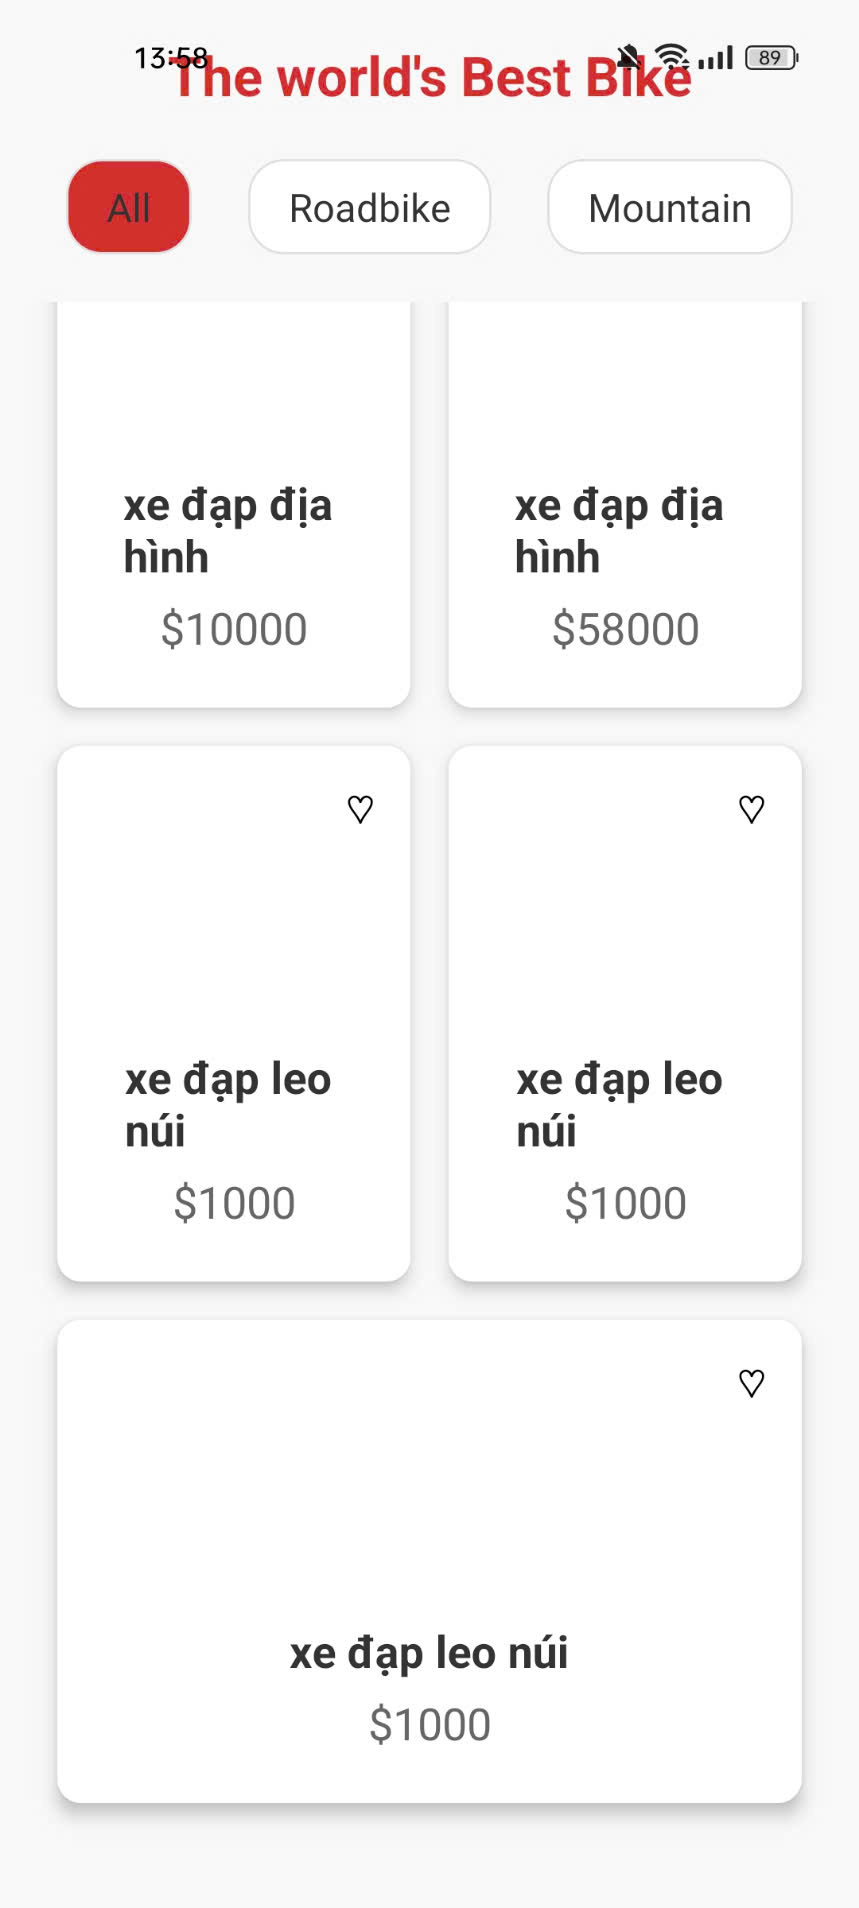
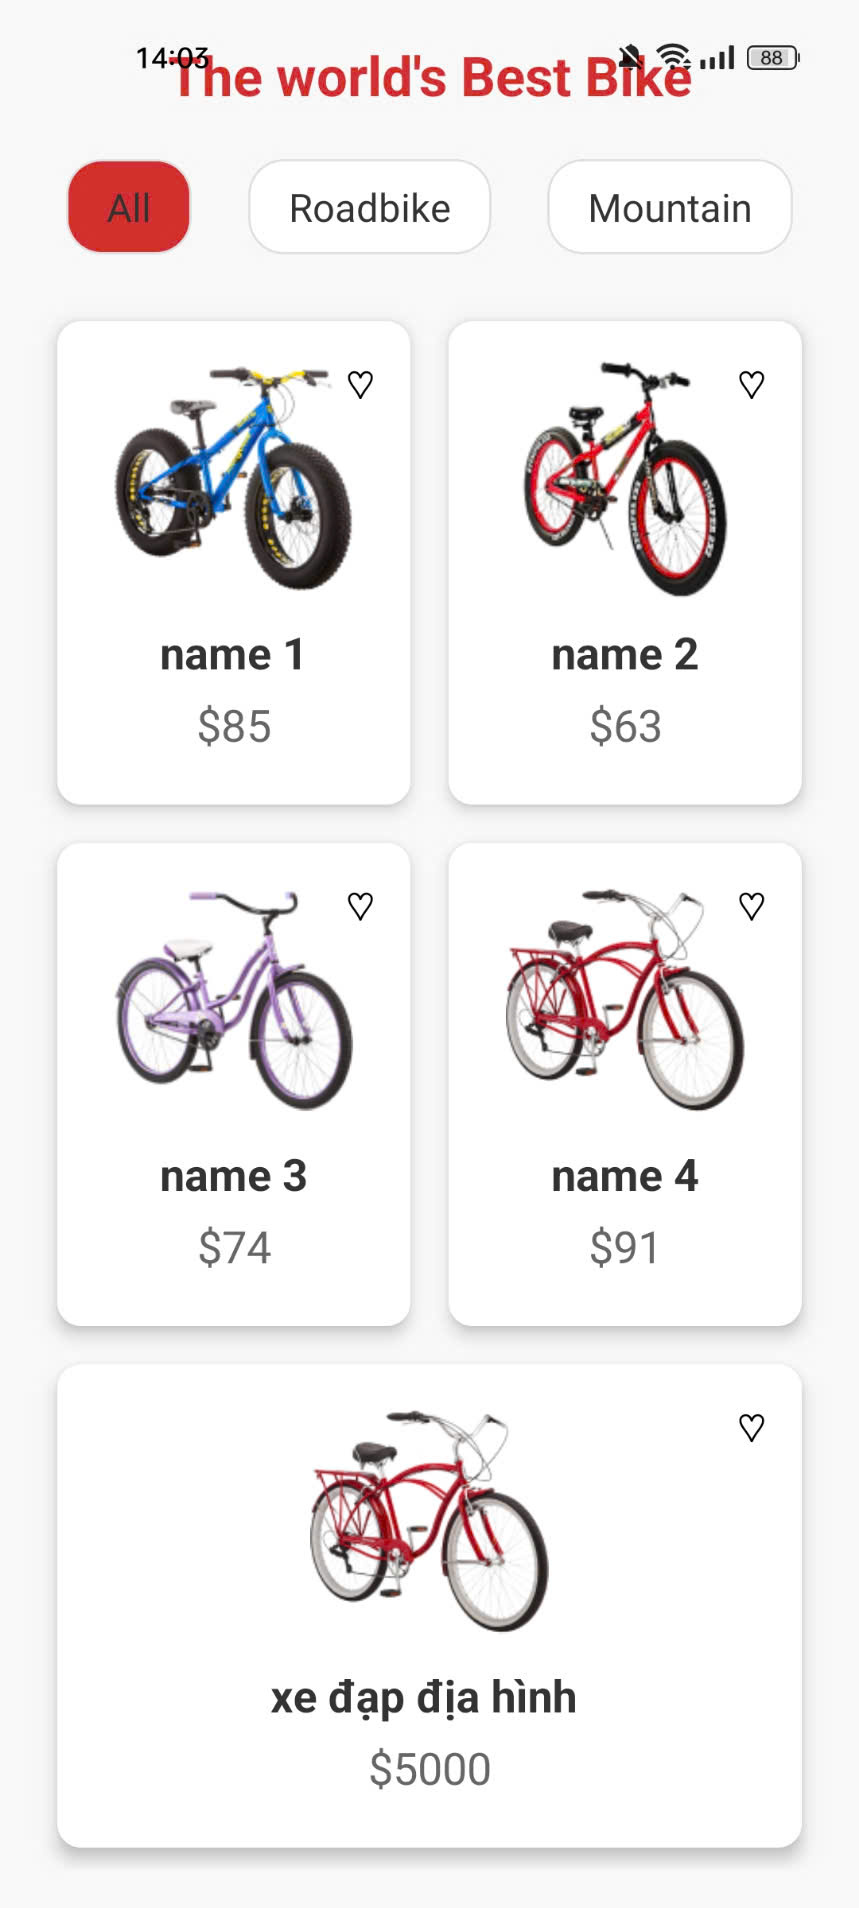
update minh chung addproduct da them duoc anh

diff --git a/Lab10/screens/addproduct.js b/Lab10/screens/addproduct.js
@@ -18,7 +18,7 @@ const AddProductScreen = ({ navigation }) => {
  
       const defaultImageUrl = 'https://huyyyy.sirv.com/Images/item4.png';
      
-      dispatch(addProduct({ name, price: parseFloat(price), imageUrl: defaultImageUrl })).then(() => {
+      dispatch(addProduct({ name, price: parseFloat(price), img: defaultImageUrl })).then(() => {
         navigation.navigate('Screen2');
       });
   };
